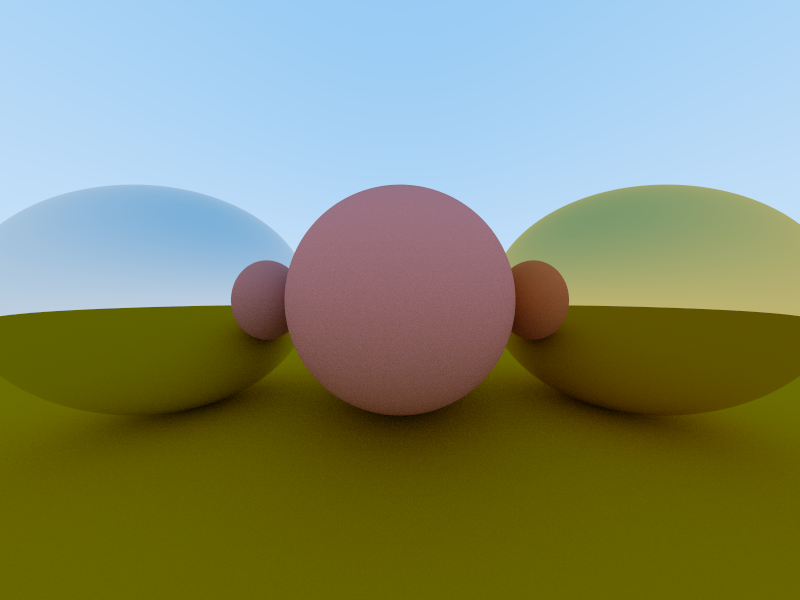
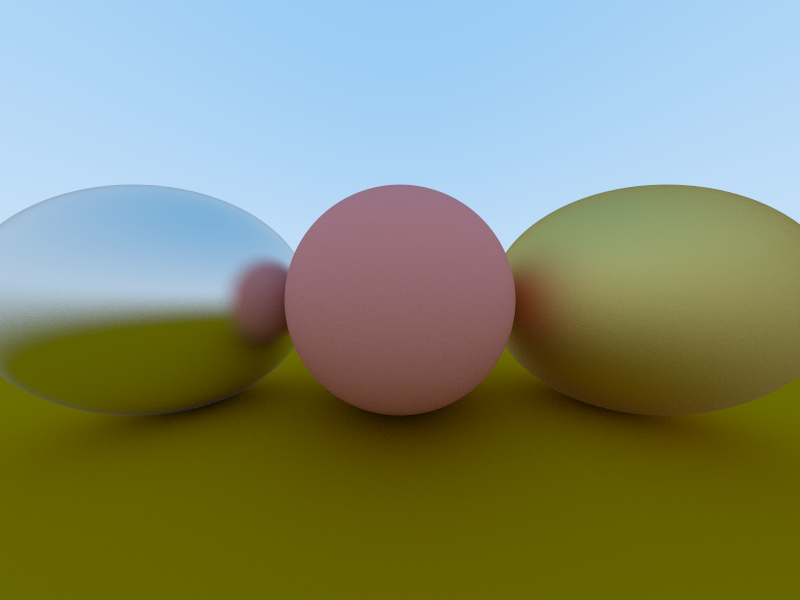
add roughness to metal materials

diff --git a/Raytracer/Main.cpp b/Raytracer/Main.cpp
@@ -39,15 +39,15 @@ int main(int argc, char **argv) {
 
     Image testImage(800, 600, 4);
     
-    const auto samples = 200;
+    const auto samples = 512;
     const auto threadCount = 8;
 
     Scene scene;
     
     shared_ptr<Material> basicPink = make_shared<Lambert>(vec3(0.8f, 0.3f, 0.3f));
     shared_ptr<Material> basicDirt = make_shared<Lambert>(vec3(0.47f, 0.28f, 0.0f));
-    shared_ptr<Material> metalGold = make_shared<Metal>(vec3(0.8f, 0.6f, 0.2f));
-    shared_ptr<Material> metalSilver = make_shared<Metal>(vec3(0.8f,0.8f,0.8f));
+    shared_ptr<Material> metalGold = make_shared<Metal>(vec3(0.8f, 0.6f, 0.2f), 1.0f);
+    shared_ptr<Material> metalSilver = make_shared<Metal>(vec3(0.8f,0.8f,0.8f), 0.3f);
 
     scene.addObject(make_unique<Sphere>(Sphere(vec3(0, 0, -1), 0.5f, basicPink)));
     scene.addObject(make_unique<Sphere>(Sphere(vec3(1.f, 0, -1), 0.5f, metalGold)));

diff --git a/Raytracer/Metal.cpp b/Raytracer/Metal.cpp
@@ -1,11 +1,23 @@
+#include <glm\gtc\random.hpp>
+
 #include "Metal.h"
 
 using namespace std;
 using namespace glm;
 
+void Metal::setRoughness(const float roughness)
+{
+    this->roughness = min(roughness, 1.f);
+}
+
+float Metal::getRoughness() const
+{
+    return roughness;
+}
+
 std::unique_ptr<ScatteredRay> Metal::getScattered(const Ray & in, const HitInfo * hit) const
 {
     vec3 reflected = reflect(normalize(in.getDirection()), hit->getNormal());
 
-    return make_unique<ScatteredRay>(hit->getLocation(), reflected, getAlbedo());
+    return make_unique<ScatteredRay>(hit->getLocation(), reflected + roughness * ballRand(1.f), getAlbedo());
 }

diff --git a/Raytracer/Metal.h b/Raytracer/Metal.h
@@ -3,10 +3,15 @@
 #include "Material.h"
 
 class Metal : public Material {
+    float roughness;
 
 public:
-    Metal(const glm::vec3 albedo) :
-        Material(albedo) {}
+    Metal(const glm::vec3 albedo, const float roughness = 0.0f) :
+        Material(albedo) {
+        setRoughness(roughness);
+    }
+    void setRoughness(const float roughness);
+    float getRoughness() const;
 
     virtual std::unique_ptr<ScatteredRay> getScattered(const Ray& in, const HitInfo* hit) const override;
 

diff --git a/Raytracer/Lambert.h b/Raytracer/Lambert.h
@@ -1,6 +1,5 @@
 #pragma once
 #include "Material.h"
-#include <glm\gtc\random.hpp>
 
 
 class Lambert : public Material {

diff --git a/Raytracer/Lambert.cpp b/Raytracer/Lambert.cpp
@@ -1,3 +1,5 @@
+#include <glm\gtc\random.hpp>
+
 #include "Lambert.h"
 
 using namespace std; 
